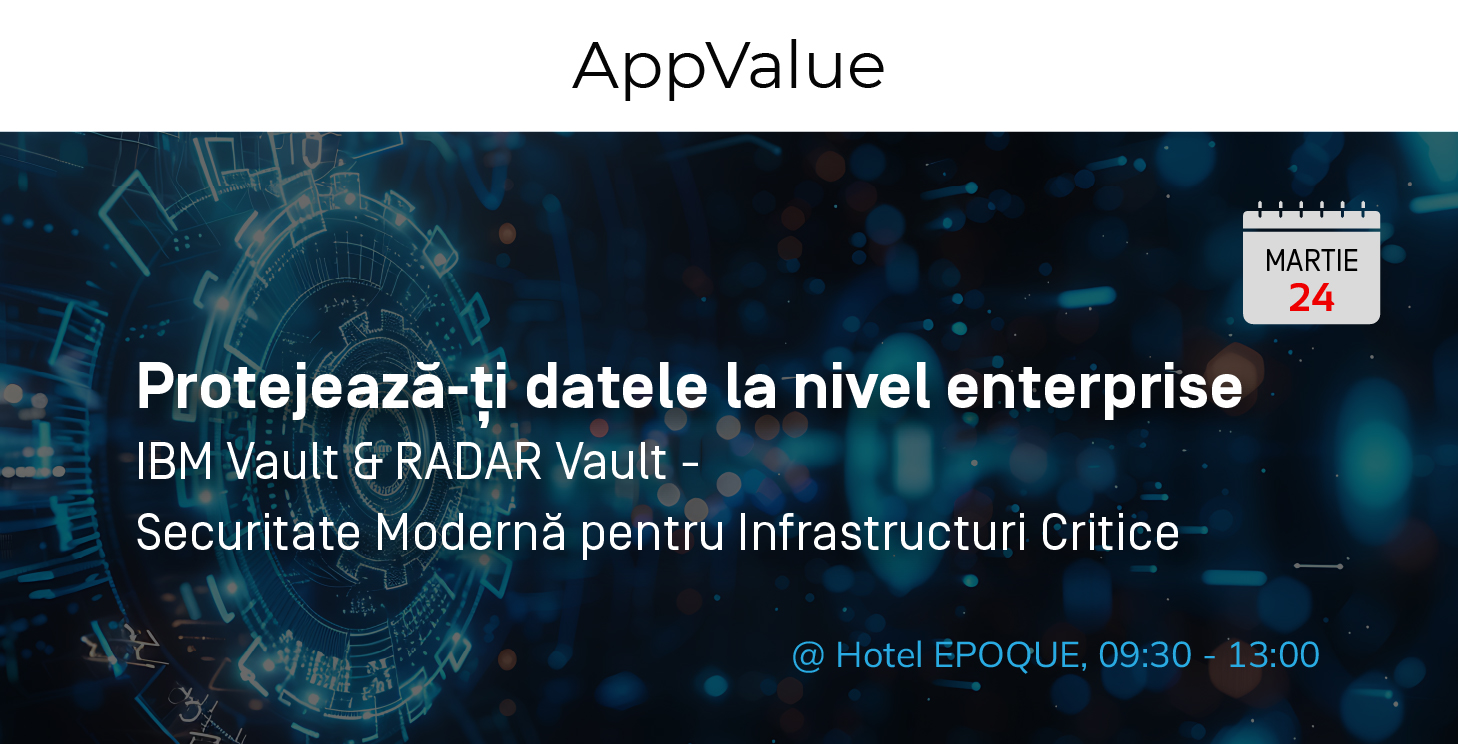
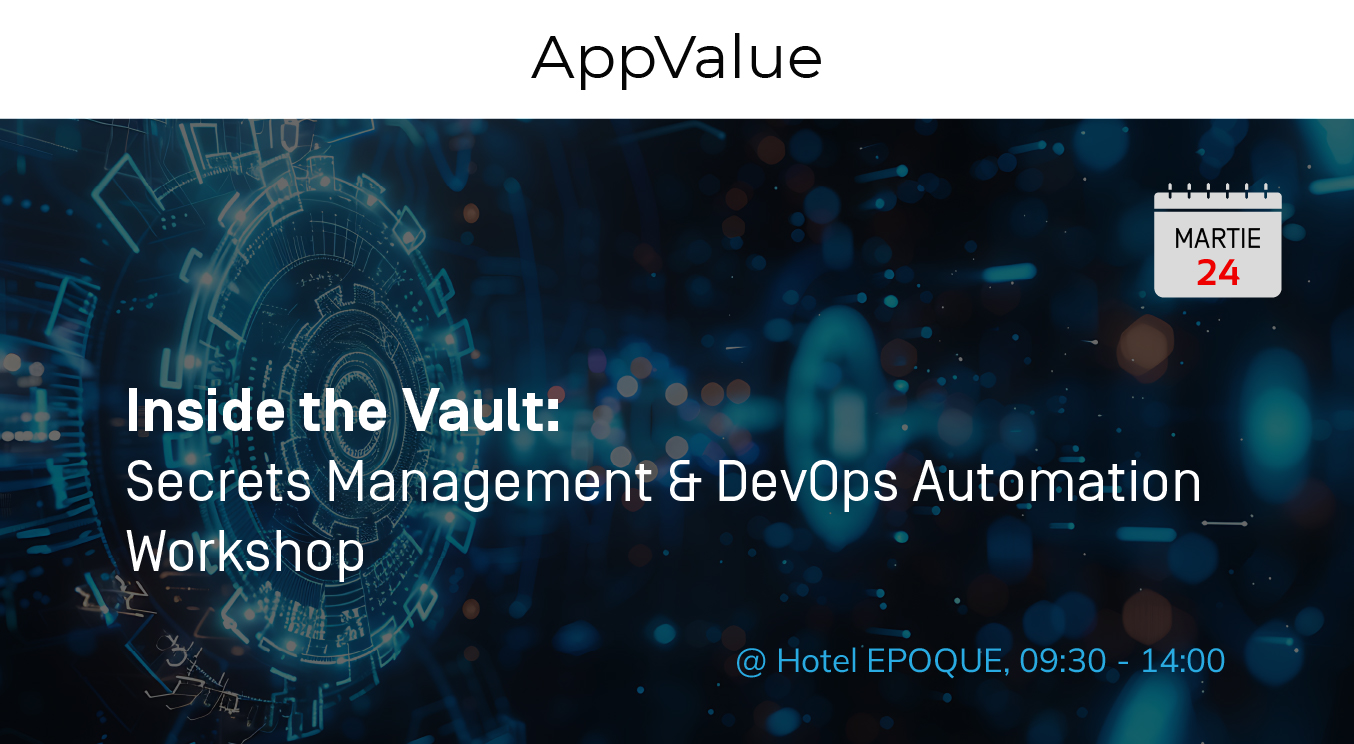
Updated header image

diff --git a/registration/index.html b/registration/index.html
@@ -53,7 +53,7 @@
     </div>
     
 	  <h2 class="fs-5 mb-2 mt-4 text-secondary text-uppercase xyz">Eveniment</h2>
-	  <img class="img-fluid" src="/assets/images/header-ibm.png">
+	  <img class="img-fluid" src="/assets/images/i-header-ibm.jpg">
   </div>
 
   <div class="container py-3">
